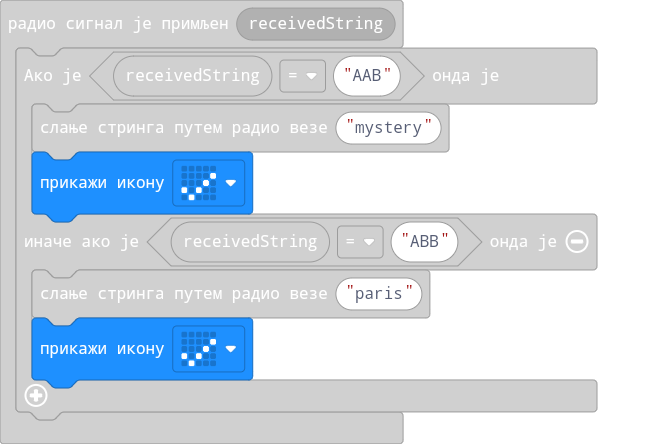
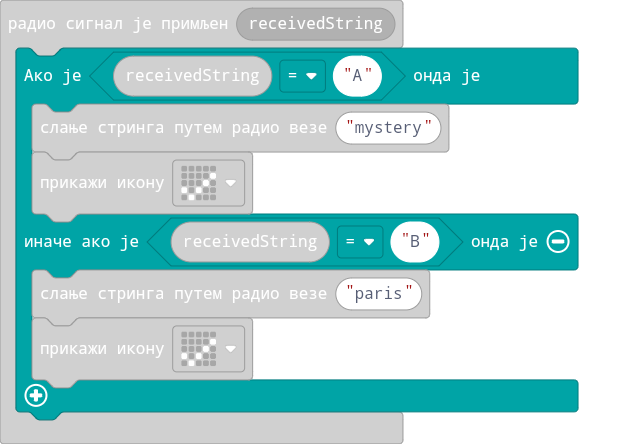
Ажурирање main.blocks, main.ts

diff --git a/main.ts b/main.ts
@@ -1,8 +1,8 @@
 radio.onReceivedString(function (receivedString) {
-    if (receivedString == "AAB") {
+    if (receivedString == "A") {
         radio.sendString("mystery")
         basic.showIcon(IconNames.Yes)
-    } else if (receivedString == "ABB") {
+    } else if (receivedString == "B") {
         radio.sendString("paris")
         basic.showIcon(IconNames.Yes)
     }
